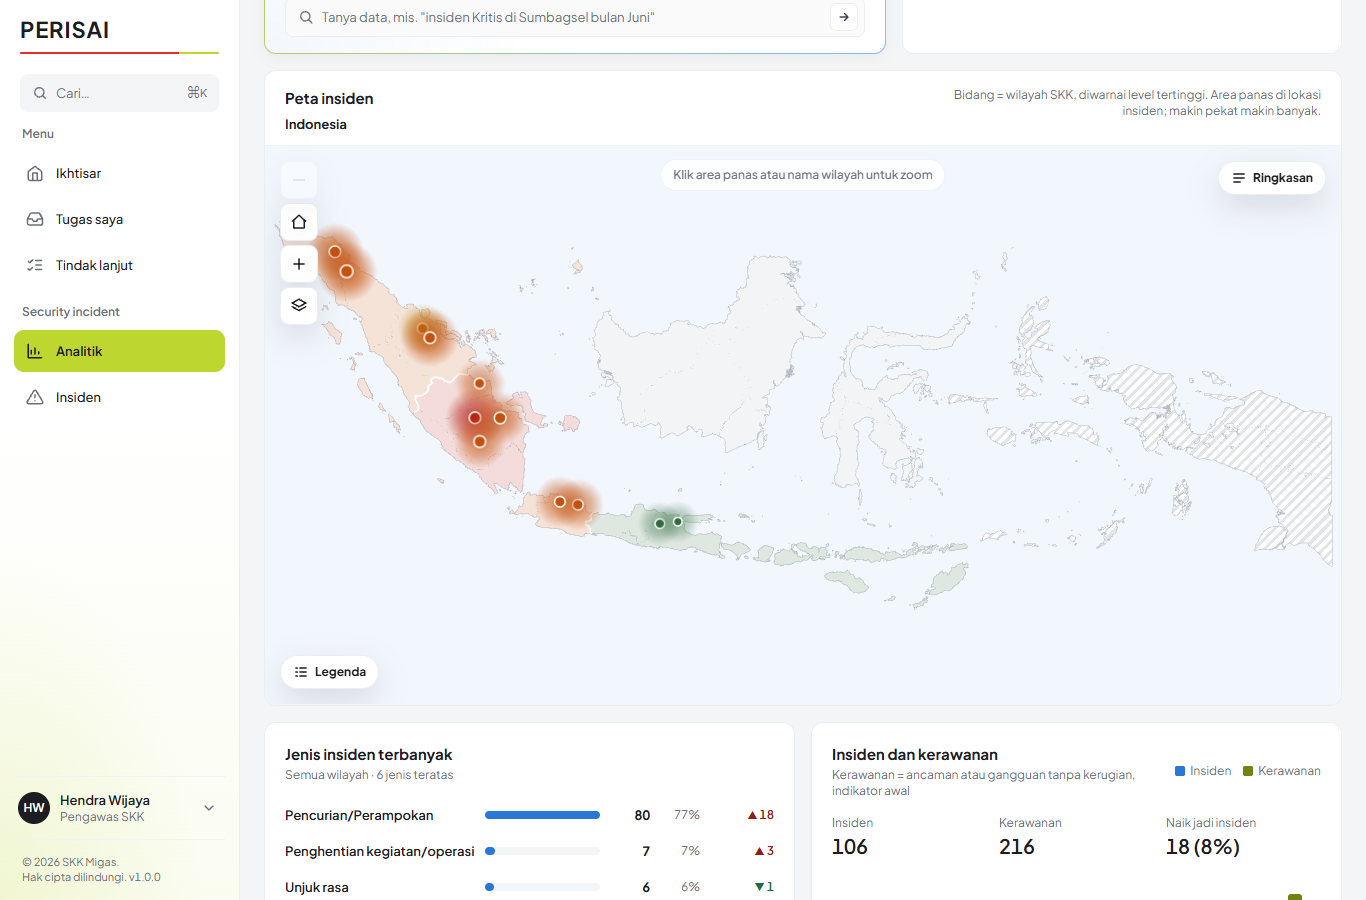
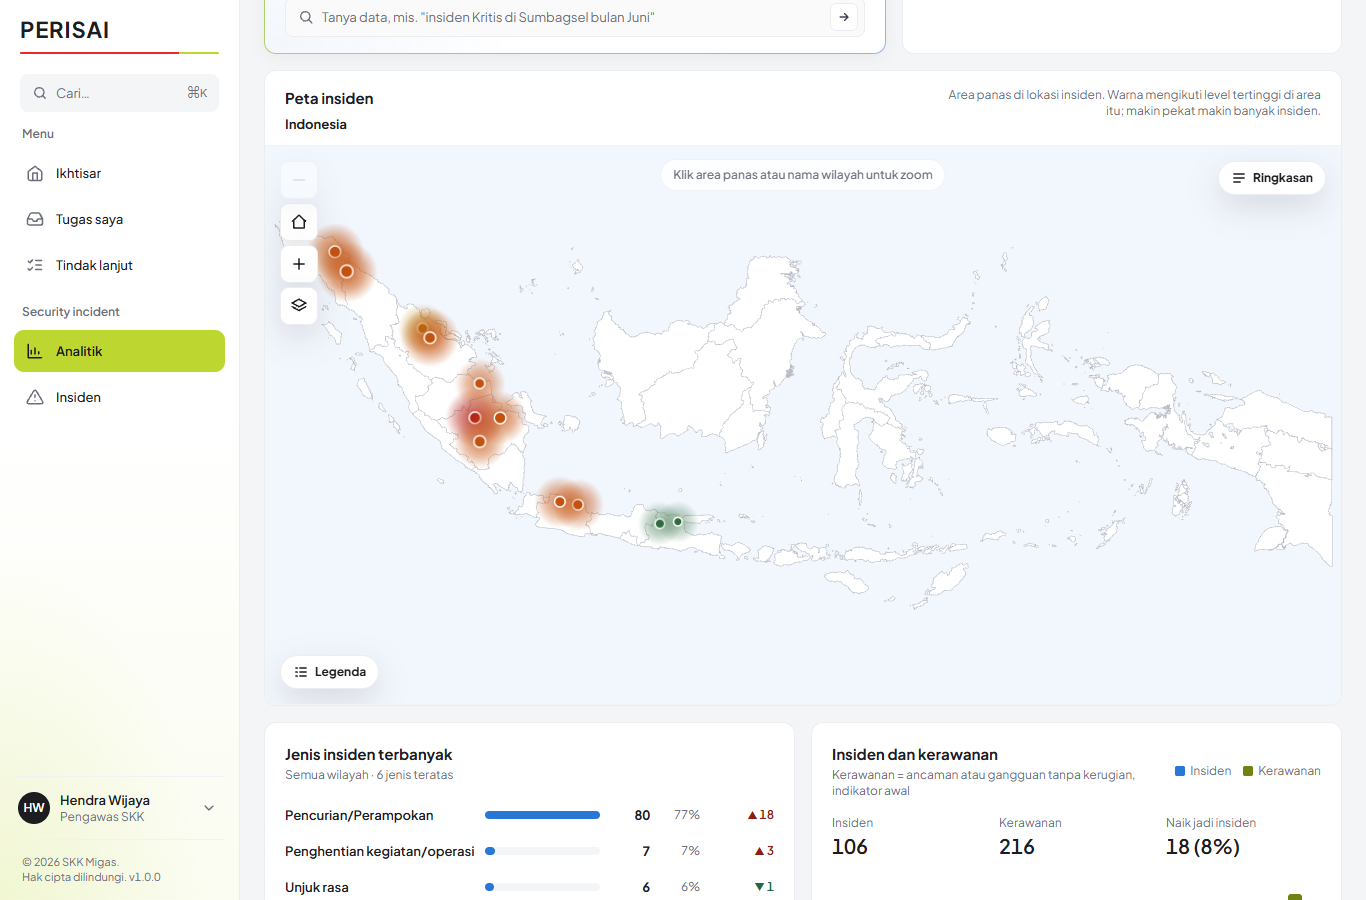
Peta nasional kembali ke tampilan lama (provinsi putih bergaris, tanpa bidang wilayah)

diff --git a/src/features/dashboard/components/MapStage.tsx b/src/features/dashboard/components/MapStage.tsx
@@ -235,16 +235,10 @@ export function MapStage({ v, hl, setHl }: { v: any; hl: Hl; setHl: (h: Hl) => v
       <div className="db-wrap" ref={wrapRef}>
         <div className="db-pan" style={{ transform: `translate(${pan.x}px, ${pan.y}px)`, transition: dragging ? 'none' : undefined }}>
           <div className="db-stage" style={{ transform: v.mapT }}>
-            {/* Iterasi 3: lapisan peta (bawah -> atas). Nasional: daratan, bidang wilayah SKK, garis antarwilayah. */}
-            <img src="/peta/id-land.svg" alt="" aria-hidden="true" draggable={false} style={{ inset: 0, width: '100%', height: '100%', opacity: v.baseOp, transition: 'opacity .3s ease' }} />
-            {(v.regs ?? []).map((r: any, i: number) => (
-              <span key={i} className="db-msk" style={{ WebkitMaskImage: r.mask, maskImage: r.mask, background: r.bg }} />
-            ))}
-            {v.lvl === 'nat' && hovW && (
-              <span className="db-msk db-msk-hov" style={{ WebkitMaskImage: `url(/peta/reg-${hovW}.svg)`, maskImage: `url(/peta/reg-${hovW}.svg)` }} />
-            )}
-            {v.showRegLines && <img src="/peta/reg-lines.svg" alt="" aria-hidden="true" draggable={false} style={{ inset: 0, width: '100%', height: '100%' }} />}
-            {/* Iterasi 2b: provinsi tetap bisa di-hover/klik, tapi tanpa garis (area klik transparan). */}
+            {/* Daratan polos untuk tingkat wilayah tanpa peta detail (Kalsul, Pamalu). */}
+            <img src="/peta/id-land.svg" alt="" aria-hidden="true" draggable={false} style={{ inset: 0, width: '100%', height: '100%', opacity: v.lvl === 'nat' ? 0 : v.baseOp, transition: 'opacity .3s ease' }} />
+            {/* Nasional (masukan PM 25 Nov, setelah Iterasi 3): kembali ke tampilan lama = provinsi putih bergaris abu tipis,
+                tanpa bidang wilayah berwarna (v.regs dan reg-lines tidak digambar). Provinsi bisa di-hover/klik. */}
             {v.lvl === 'nat' && (
               <svg className="db-prov" viewBox="0 0 1000 400" aria-hidden="true">
                 {PROVINSI.map((p, i) => (
@@ -263,6 +257,9 @@ export function MapStage({ v, hl, setHl }: { v: any; hl: Hl; setHl: (h: Hl) => v
                   />
                 ))}
               </svg>
+            )}
+            {v.lvl === 'nat' && hovW && (
+              <span className="db-msk db-msk-hov" style={{ WebkitMaskImage: `url(/peta/reg-${hovW}.svg)`, maskImage: `url(/peta/reg-${hovW}.svg)` }} />
             )}
             {/* Wilayah dan WK: batas administrasi, bidang WK, garis batas WK, fasilitas buatan sendiri. */}
             {v.hasDet && <img src={v.detSrc} alt="" aria-hidden="true" draggable={false} style={{ left: v.det.l, top: v.det.t, width: v.det.w, height: v.det.h, opacity: v.admOp, transition: 'opacity .2s ease' }} />}

diff --git a/src/styles/features/dashboard-app.css b/src/styles/features/dashboard-app.css
@@ -131,3 +131,8 @@
 .db-laybtn[aria-expanded="true"] { background: var(--ink); color: var(--surface); }
 .db-ctl .db-laypop button { width: 100%; height: auto; box-shadow: none; background: none; justify-content: flex-start; text-align: left; border-radius: var(--radius-sm); cursor: pointer; }
 .db-ctl .db-laypop button:hover { background: var(--surface-sunken); }
+
+/* ---------- Nasional kembali ke tampilan lama (masukan PM 25 Nov setelah Iterasi 3) ---------- */
+.db-prov path { fill: #fff; stroke: #B9BCC5; stroke-width: .6px; vector-effect: non-scaling-stroke; stroke-linejoin: round; }
+.db-prov path.on { fill: color-mix(in srgb, var(--ink) 5%, #fff); stroke: var(--ink-muted); }
+.db-msk-hov { background: rgba(28, 29, 33, .05); }

diff --git a/CHANGELOG.md b/CHANGELOG.md
@@ -1,5 +1,10 @@
 # Changelog
 
+## 25 Nov 2026 · Masukan PM setelah Iterasi 3
+
+- Tampilan nasional kembali ke gaya lama: provinsi putih bergaris abu tipis di atas laut, tanpa bidang wilayah berwarna dan tanpa garis antarwilayah. Keterangan peta nasional ikut kembali ("Area panas di lokasi insiden. ..."). Hover provinsi menyorot tipis seluruh wilayah SKK-nya, chip wilayah tetap hanya saat hover.
+- Tingkat wilayah dan WK tetap memakai lapisan Iterasi 3 (cakupan WK, batas WK, fasilitas, tombol Lapisan).
+
 ## 25 Nov 2026 · Iterasi 3 · disetujui PM 25 Nov
 
 Peta wilayah SKK, cakupan WK, dan fasilitas. Desain dan `public/peta/` (68 file) dari zip terbaru.
